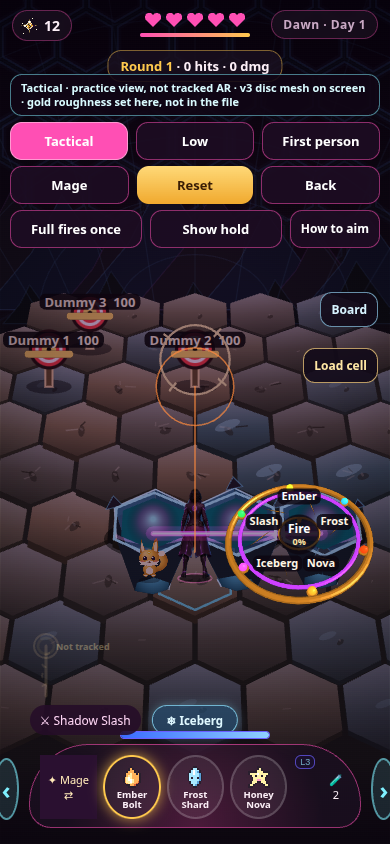
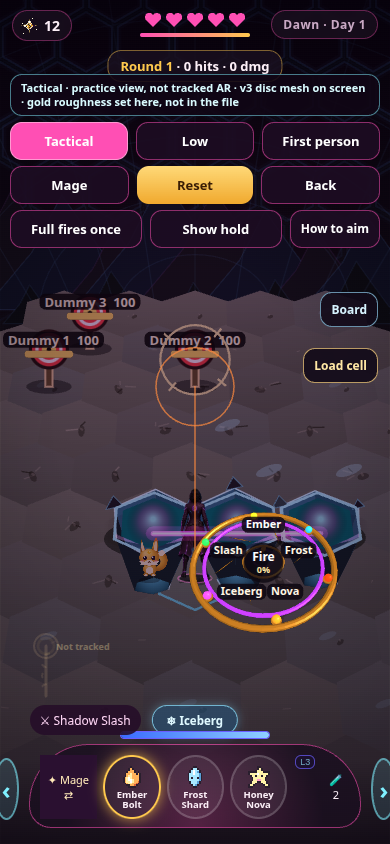
Join the training-yard stone and clear the landscape controls
The yard plates overlap into one stone floor, with fewer marks on wide screens. On a short wide screen the cast line sits on the right, and the yard buttons stay in a left rail and a right stack so they do not cover the dodge or the middle of the field.

diff --git a/v7/index.html b/v7/index.html
@@ -140,6 +140,16 @@ input[type=range]{accent-color:var(--pink);width:120px}
   #trainHud button{padding:6px 6px;font-size:12px}
   #castFeed{left:8px;right:auto;transform:none;top:auto;bottom:8px;max-width:42vw}
 }
+@media (max-height:519px) and (min-width:560px){
+  #trainHud{left:8px;top:44px;width:232px;gap:3px}
+  #trainHud .note{display:none}
+  #trainHud button{padding:4px 5px;font-size:11px;white-space:nowrap;line-height:1.15}
+  #castFeed{left:auto;right:8px;top:122px;bottom:auto;transform:none;max-width:34vw;font-size:12px;z-index:16}
+  #wheel{gap:6px}
+  .dodge{width:48px;height:48px;font-size:18px;margin-bottom:4px}
+  .sp{width:52px;height:52px}
+  #iceWall{top:-30px;height:26px;font-size:11px;padding:0 10px}
+}
 #mapNav{position:fixed;left:10px;bottom:calc(16px + var(--sab));z-index:8;display:flex;flex-direction:column;gap:6px;width:118px}
 #mapNav button{padding:8px 8px;border-radius:12px;background:rgba(18,8,24,.9);border:1px solid rgba(255,201,77,.55);font-weight:900;font-size:13px;color:#fff6d8}
 #cmdList{display:flex;flex-direction:column;gap:6px;margin-top:8px}
@@ -222,6 +232,11 @@ background:radial-gradient(ellipse at 50% 30%,rgba(255,79,180,.22),rgba(26,15,31
 }
 @media (max-height:519px){
   #cellBtn{top:calc(12px + var(--sat));bottom:auto}
+}
+@media (max-height:519px) and (min-width:560px){
+  #itemBoard{top:44px;right:8px}
+  #cellBtn{top:80px;right:8px}
+  #itemBubble{left:auto;right:8px;top:118px;width:54px;height:54px}
 }
 #roomLow.on{background:#1c3c48;border-color:#9fdfff}
 #charBtn i{width:12px;height:13px;background:var(--gold);clip-path:polygon(35% 0,65% 0,75% 22%,65% 42%,100% 60%,100% 100%,0 100%,0 60%,35% 42%,25% 22%)}
@@ -2076,26 +2091,28 @@ function renderArenaFloor() {
         const spare = W > H || d > 2;
         const wetStone = hsh(q * 3 + 8, r * 11 + 2) > (spare ? .78 : .58);
         const warmStone = hsh(q + 4, r * 2 + 1) > .5;
-        col = wetStone ? (spare ? '#5c686c' : '#4d666e') : warmStone ? (spare ? '#7b6a58' : '#8d7058') : (n > .55 ? '#74685e' : '#62584f');
-        lift = spare ? 1.8 : 3.6;
+        col = wetStone ? '#6d6a66' : warmStone ? '#756d64' : (n > .55 ? '#6f6862' : '#68625c');
+        lift = 0;
       } else if (station) { col = '#322838'; lift = 7; }
       else if (lane) { col = n > .5 ? '#241c2a' : '#1a141f'; lift = 6; }
       else { col = n > .72 ? '#2c2432' : n > .38 ? '#1c1622' : '#121016'; lift = d > 3 ? 3 : 5.5 + n * 2.2; }
     }
     else { const isPoi = d <= 1, wtr = r < -1 || (d > 2); col = wtr ? '#163e6e' : isPoi ? mixHex('#2a3a48', '#d99a2a', AR.share * (d === 0 ? 1 : .8)) : '#24563c'; lift = wtr ? 0 : 5; }
     const [, , f] = proj(c, x, y);
-    const skirt = lift * (AR.kind === 'raid' ? clamp(f / .85, .7, 1.6) * (raidViewLow() ? 2.15 : 1.65) : 1);
-    if (skirt) { g.save(); g.translate(0, skirt * f); hexPath(c, x, y, .94, g); g.restore(); g.fillStyle = shade(col, -.55); g.fill(); }
-    hexPath(c, x, y, .94, g);
+    const plate = yardStage() ? 1.06 : .94;
+    const skirt = yardStage() ? 0 : lift * (AR.kind === 'raid' ? clamp(f / .85, .7, 1.6) * (raidViewLow() ? 2.15 : 1.65) : 1);
+    if (skirt) { g.save(); g.translate(0, skirt * f); hexPath(c, x, y, plate, g); g.restore(); g.fillStyle = shade(col, -.55); g.fill(); }
+    hexPath(c, x, y, plate, g);
     if (AR.kind === 'raid') {
-      const pts = HEXC.map(p => proj(c, x + p[0] * .94, y + p[1] * .94));
+      const pts = HEXC.map(p => proj(c, x + p[0] * plate, y + p[1] * plate));
       let tx = pts[0][0], ty = pts[0][1], bx = tx, by = ty;
       for (const p of pts) { if (p[1] < ty) { ty = p[1]; tx = p[0]; } if (p[1] > by) { by = p[1]; bx = p[0]; } }
       const face = g.createLinearGradient(tx, ty, bx, by);
-      face.addColorStop(0, shade(col, .32)); face.addColorStop(.48, col); face.addColorStop(1, shade(col, -.4));
+      if (yardStage()) { face.addColorStop(0, shade(col, .08)); face.addColorStop(1, shade(col, -.05)); }
+      else { face.addColorStop(0, shade(col, .32)); face.addColorStop(.48, col); face.addColorStop(1, shade(col, -.4)); }
       g.fillStyle = face; g.fill();
       if (!yardStage()) { hexPath(c, x, y, .5, g); g.fillStyle = 'rgba(90,190,255,.055)'; g.fill(); }
-      hexPath(c, x, y, .94, g);
+      hexPath(c, x, y, plate, g);
     } else { g.fillStyle = col; g.fill(); }
     const station = TRAIN.on && !TRAIN.king && AR.kind === 'raid' && ((q === -1 && r === -2) || (q === 1 && r === -2) || (q === 0 && r === -3));
     if (yardStage()) {
@@ -2167,7 +2184,7 @@ function drawArena(T) {
   if (AR.kind === 'raid') {
     // The pink underworld reads as hot seams once the floor is translucent. Raid plates stay opaque; gaps are a dim cyan lattice.
     // Training yard keeps that lattice off. The hex math is unchanged; cues draw only while aiming.
-    ctx.fillStyle = yardStage() ? '#2a2624' : '#07060c'; ctx.fillRect(0, 0, W, H);
+    ctx.fillStyle = yardStage() ? '#68625c' : '#07060c'; ctx.fillRect(0, 0, W, H);
     if (!yardStage()) {
       ctx.strokeStyle = 'rgba(110,160,200,.16)'; ctx.lineWidth = 1; ctx.beginPath();
       for (const t of AHEX) if (t.d <= 5) addHex(c, t.x, t.y, .99, ctx);

diff --git a/v7/HANDOFF.md b/v7/HANDOFF.md
@@ -8,7 +8,7 @@ Live `/v7/` on main is unchanged. Nothing here was merged or deployed.
 
 ## Training yard ground (unpublished test)
 
-The training yard, not the map and not a map raid, draws a brighter stone floor with cracks, pebbles, and a few wet marks, and leaves the idle hex outlines off. Landscape and far tiles use fewer of those marks. The hex grid underneath is the same one. While a cast is aimed, the selected hex and the cells that spell will hit light up before release. The standing hex, danger zones, and live field colors stay visible. A slash still cuts one hex at a time. Each risen cut shows its own lit interior, and fire or ice on that hex is the real field state. A negative hex index in the gully rubble used to throw and stop the rest of the cut from drawing; that index now wraps. Step, lava, ice, mob block, timer, and reset rules are unchanged. This was checked in Chrome on the desktop, not on a phone.
+The training yard, not the map and not a map raid, draws one continuous stone floor. The plates overlap so the idle gaps close, and cracks, pebbles, and a few wet marks stay on that stone. Landscape and far tiles use fewer marks. Wide short screens pack the yard buttons into a left rail and a right stack so the cast line is not sitting on the dodge. The hex grid underneath is the same one. While a cast is aimed, the selected hex and the cells that spell will hit light up before release. The standing hex, danger zones, and live field colors stay visible. A slash still cuts one hex at a time. Each risen cut shows its own lit interior, and fire or ice on that hex is the real field state. A negative hex index in the gully rubble used to throw and stop the rest of the cut from drawing; that index now wraps. Step, lava, ice, mob block, timer, and reset rules are unchanged. This was checked in Chrome on the desktop, not on a phone.
 
 ## Casting disc in first person
 
